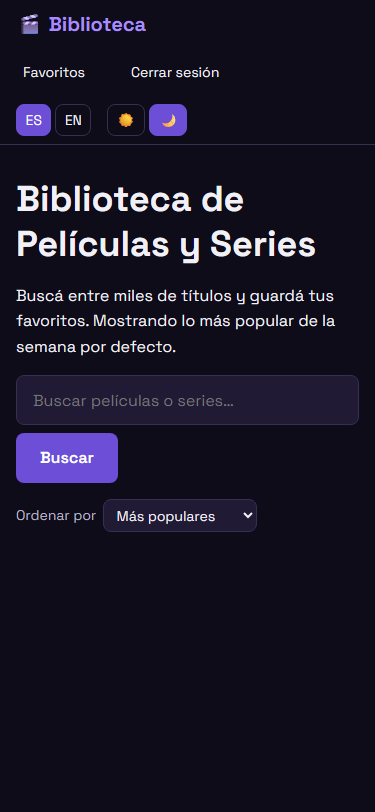
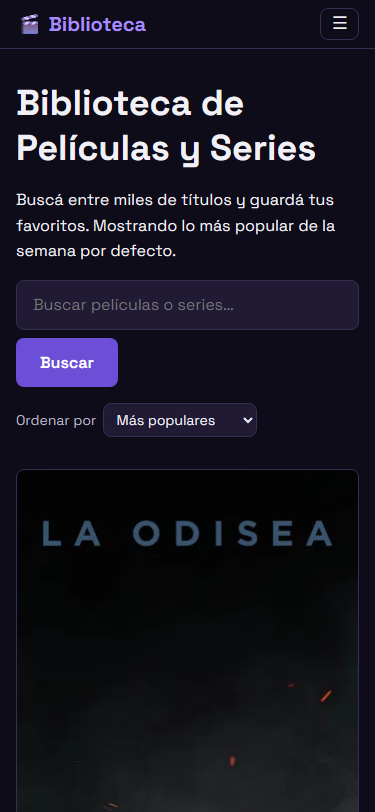
content: replace the modest nav fix with a hamburger-menu redesign
The first fix (hiding the email, reflowing one row) only took the
header from 178px to 144px — a difference too subtle to read in a
before/after screenshot. Collapsing the mobile nav behind a toggle
button instead drops it to 49px (6% of the viewport, down from
21.9%), which is what's now documented and shown in the re-test
screenshot.

diff --git a/index.html b/index.html
@@ -518,19 +518,19 @@
               <p class="bug-report__field"><strong><span data-lang="es">Prioridad</span><span data-lang="en">Priority</span>:</strong> <span data-lang="es">Media.</span><span data-lang="en">Medium.</span></p>
 
               <div class="bug-report__fix">
-                <p class="bug-report__field" data-lang="es"><strong>Solución (Desarrollo):</strong> el desarrollador ajustó, en <code>layout.css</code>, la regla del breakpoint mobile que forzaba todo <code>.site-nav</code> a apilarse en columna (marca, menú y selector de tema, cada uno en su propia fila). En su lugar, dejó que solo la lista de navegación ocupe su propia fila (<code>flex-basis: 100%</code>) y ocultó el email de la usuaria en el header en mobile — un dato secundario, ya visible en el propio flujo de sesión — para que "Favoritos" y "Cerrar sesión" entren en una sola línea.</p>
-                <p class="bug-report__field" data-lang="en"><strong>Fix (Development):</strong> the developer adjusted, in <code>layout.css</code>, the mobile-breakpoint rule that forced the entire <code>.site-nav</code> to stack in a column (brand, menu, and theme switch each on their own row). Instead, only the nav list now takes its own row (<code>flex-basis: 100%</code>), and the user's email was hidden in the mobile header — a secondary detail, already visible elsewhere in the session flow — so "Favoritos" and "Cerrar sesión" fit on a single line.</p>
+                <p class="bug-report__field" data-lang="es"><strong>Solución (Desarrollo):</strong> el primer ajuste del desarrollador (ocultar el email y reacomodar una fila) reducía el problema pero no lo resolvía del todo, así que optó por un rediseño más claro: en mobile, la marca queda sola en el header y el resto (navegación, selector de idioma y de tema) se colapsa detrás de un botón de menú (☰) que se despliega al tocarlo. Agregó el botón <code>#nav-toggle</code> y un contenedor <code>#site-nav-menu</code> en las 4 páginas del sitio, con <code>display: contents</code> en desktop (no cambia nada ahí) y <code>display: none</code> / <code>.is-open</code> en mobile, más un listener en <code>nav.js</code> para alternar la clase al tocar el botón.</p>
+                <p class="bug-report__field" data-lang="en"><strong>Fix (Development):</strong> the developer's first pass (hiding the email and reflowing one row) reduced the problem but didn't fully solve it, so they went with a clearer redesign instead: on mobile, the brand now sits alone in the header and everything else (nav links, language switch, theme switch) collapses behind a menu button (☰) that expands on tap. They added a <code>#nav-toggle</code> button and a <code>#site-nav-menu</code> wrapper across the site's 4 pages, using <code>display: contents</code> on desktop (no visual change there) and <code>display: none</code> / <code>.is-open</code> on mobile, plus a listener in <code>nav.js</code> to toggle the class on tap.</p>
 
                 <p class="bug-report__field"><strong><span data-lang="es">Estado</span><span data-lang="en">Status</span>:</strong> <span data-lang="es">Completado.</span><span data-lang="en">Done.</span></p>
 
-                <p class="bug-report__field" data-lang="es"><strong>Re-test:</strong> repetí los mismos pasos sobre la versión corregida, en el mismo modo responsive (375×812), logueada.</p>
-                <p class="bug-report__field" data-lang="en"><strong>Re-test:</strong> repeated the same steps against the fixed version, in the same responsive mode (375×812), logged in.</p>
+                <p class="bug-report__field" data-lang="es"><strong>Re-test:</strong> repetí los mismos pasos sobre la versión corregida, en el mismo modo responsive (375×812).</p>
+                <p class="bug-report__field" data-lang="en"><strong>Re-test:</strong> repeated the same steps against the fixed version, in the same responsive mode (375×812).</p>
 
                 <div class="screenshots">
-                  <img src="assets/img/proyecto-destacado/bug-header-mobile-despues.png" alt="Header corregido en 2 filas compactas, sin ocupar espacio de más" width="375" height="812" loading="lazy">
+                  <img src="assets/img/proyecto-destacado/bug-header-mobile-despues.png" alt="Header corregido: una sola fila con la marca y un botón de menú colapsado" width="375" height="812" loading="lazy">
                 </div>
-                <p class="bug-report__field" data-lang="es">Altura de <code>header.site-header</code> = 144,56px (17,8% del viewport, antes 21,9%). El header pasó de 3 filas apiladas a 2 filas compactas ("Favoritos · Cerrar sesión" y "ES · EN · tema"), sin superposición ni pérdida de funcionalidad.</p>
-                <p class="bug-report__field" data-lang="en"><code>header.site-header</code> height = 144.56px (17.8% of the viewport, down from 21.9%). The header went from 3 stacked rows to 2 compact rows ("Favoritos · Cerrar sesión" and "ES · EN · theme"), with no overlap or loss of functionality.</p>
+                <p class="bug-report__field" data-lang="es">Altura de <code>header.site-header</code> = 49px (6% del viewport, antes 21,9%) con el menú colapsado por defecto. El resto de las opciones (Favoritos, email, Cerrar sesión, idioma, tema) sigue disponible al tocar el botón ☰, sin perder funcionalidad.</p>
+                <p class="bug-report__field" data-lang="en"><code>header.site-header</code> height = 49px (6% of the viewport, down from 21.9%) with the menu collapsed by default. The rest of the options (Favorites, email, sign out, language, theme) are still available by tapping the ☰ button, with no loss of functionality.</p>
               </div>
             </div>
           </div>
